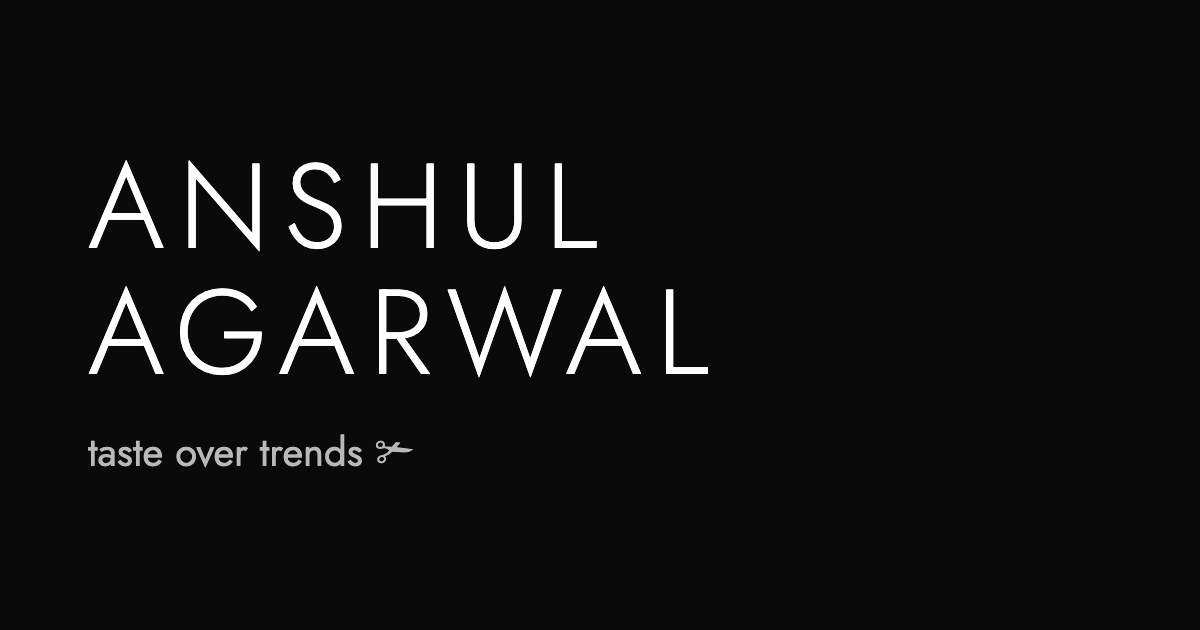
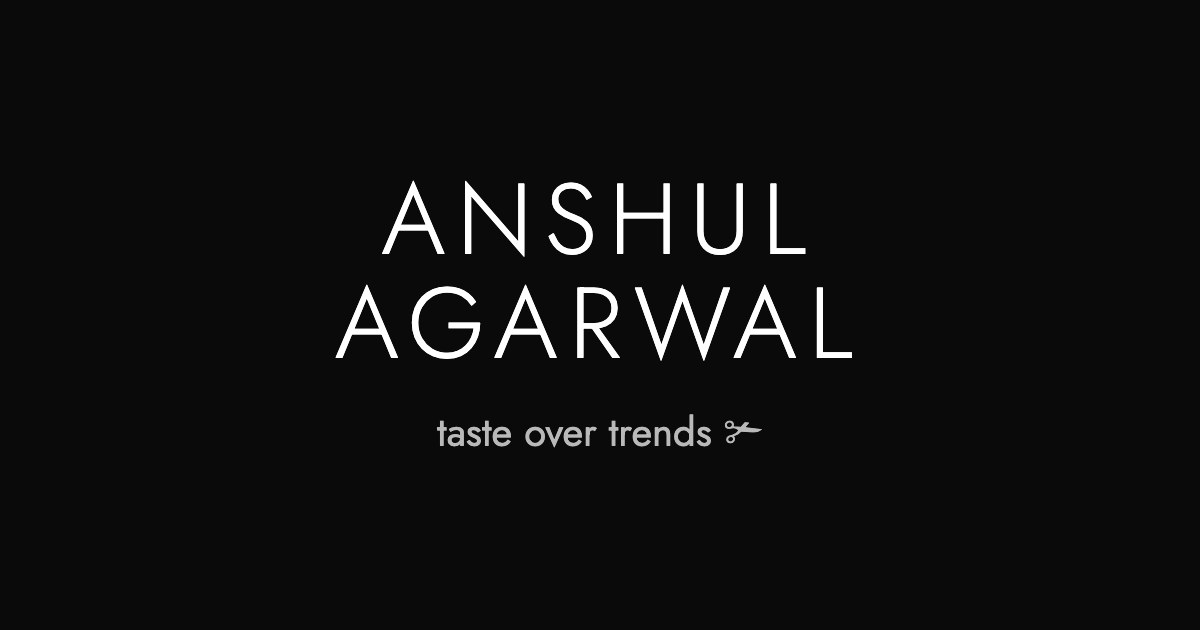
Centre link previews; shirt fit gets its own cover preview

diff --git a/shirt-fit/index.html b/shirt-fit/index.html
@@ -10,7 +10,7 @@
 <meta property="og:description" content="Slim, regular, relaxed or oversized: the shirt fit made for your body, plus how to check the size and pick the fabric.">
 <meta property="og:type" content="website">
 <meta property="og:url" content="https://anshulagg.vercel.app/shirt-fit/">
-<meta property="og:image" content="https://anshulagg.vercel.app/og.jpg">
+<meta property="og:image" content="https://anshulagg.vercel.app/shirt-fit/og.jpg">
 <meta name="twitter:card" content="summary_large_image">
 <link rel="preconnect" href="https://fonts.googleapis.com"><link rel="preconnect" href="https://fonts.gstatic.com" crossorigin><link rel="stylesheet" href="https://fonts.googleapis.com/css2?family=Give+You+Glory&family=IBM+Plex+Mono:wght@400;500&family=Jost:wght@300;400;500&display=swap">
 <style>
